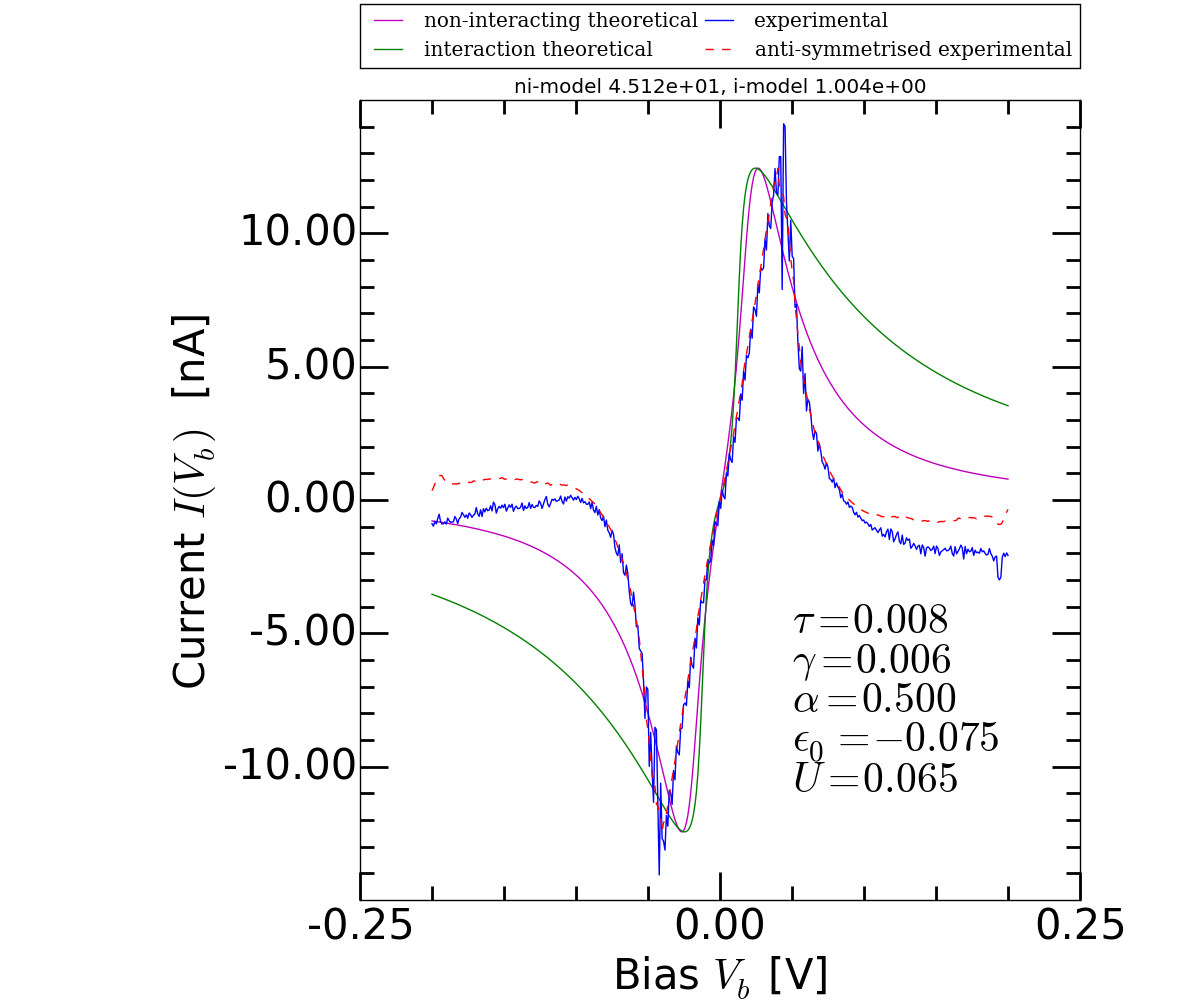
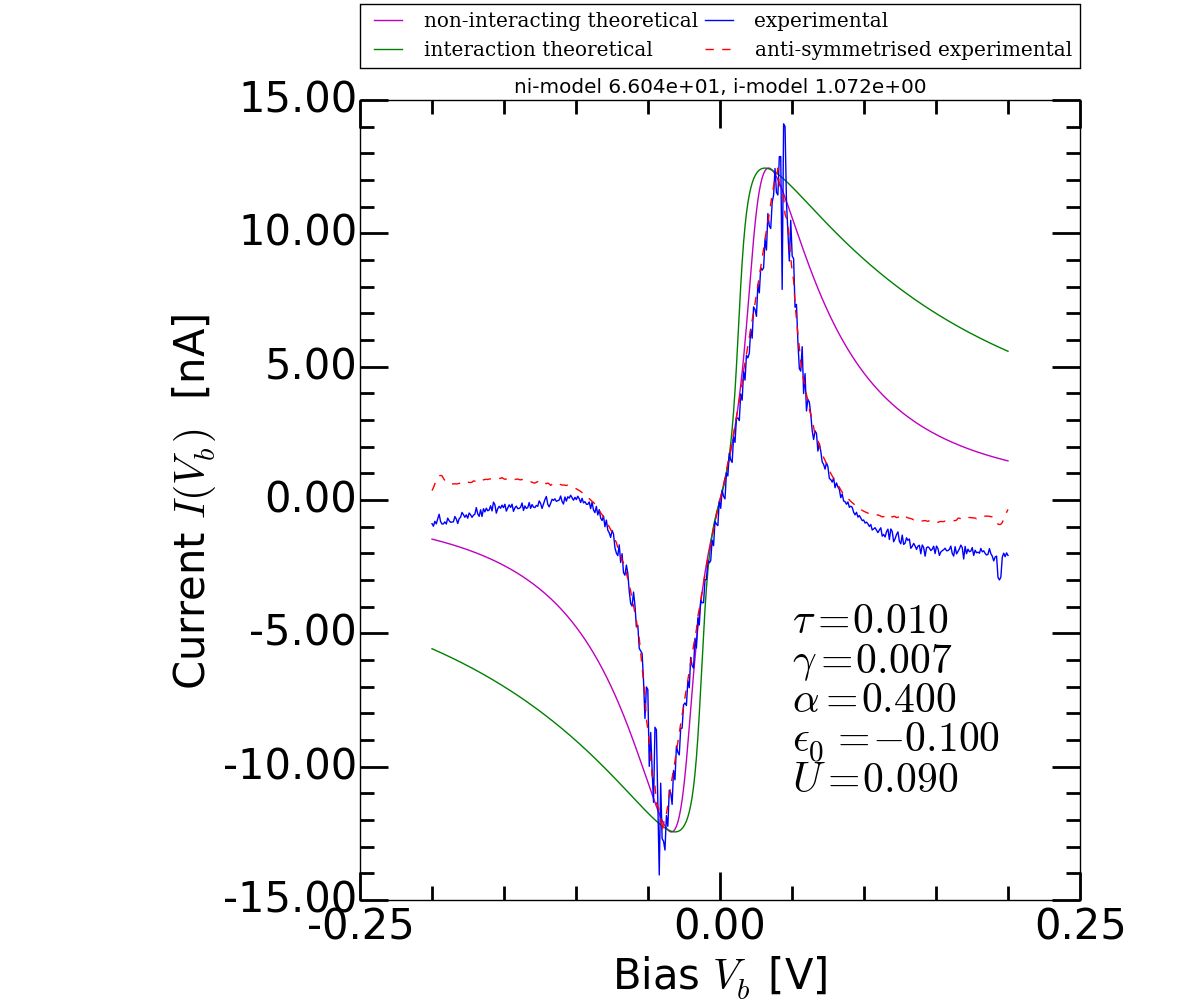
Incredible progress and all that.

diff --git a/perrin_exp_roughfit_visualise.py b/perrin_exp_roughfit_visualise.py
@@ -269,9 +269,14 @@ plt.xlabel(xlabel, fontsize=30)
 plt.ylabel(ylabel, fontsize=30)
  
 plt.xticks(np.array([-0.25, 0.00, 0.25])) 
-if maximum * nano > 10:
+
+if maximum * nano > 25:
+    plt.yticks([-50,-25, 0, 25, 50])
+elif maximum * nano > 15:
+    plt.yticks([-25, -15, 0 ,15 , 25])
+elif maximum * nano > 10:
     plt.yticks([-15,-10, -5, 0, 5, 10, 15])
-if maximum * nano > 5:
+elif maximum * nano > 5:
     plt.yticks([-10, -5, 0, 5,10])
 else:
     plt.yticks([-5, -2.5, 0, 2.5,5])
